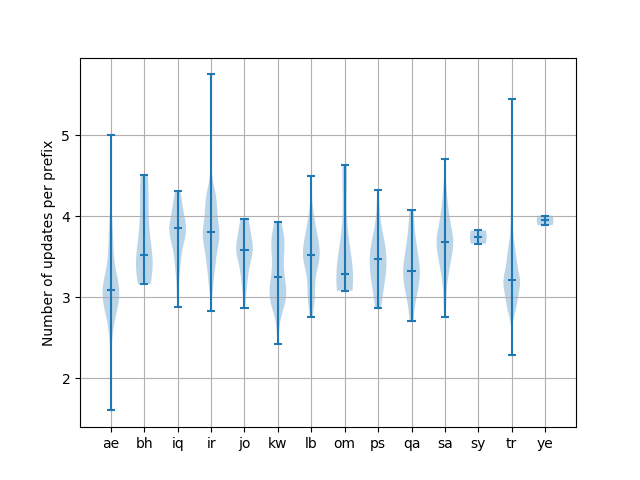
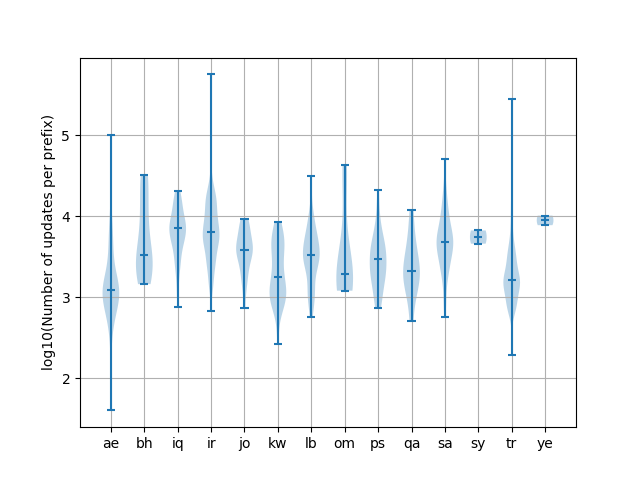
merge nb prefixes

Changed region(s): [[0.0625, 0.25, 0.0938, 0.7812]]

diff --git a/plot-country-updates.py b/plot-country-updates.py
@@ -9,6 +9,7 @@ from datetime import datetime
 
 merge_nb_updates = []
 merge_update_ratio = []
+merge_nb_prefixes = []
 country_codes = []
 output_path = './output/'
 figure_path = './figures/'
@@ -32,6 +33,7 @@ for output_file in sorted(glob.glob(os.path.join(output_path, '*.txt'))):
         country_codes.append(country_code)
         merge_nb_updates.append(np.log10(nb_updates))
         merge_update_ratio.append(np.log10(update_ratio))
+        merge_nb_prefixes.append(nb_prefixes)
 
         nb_updates_fig = plt.figure()
         plt.loglog(nb_prefixes,nb_updates,'x')
@@ -50,7 +52,7 @@ for output_file in sorted(glob.glob(os.path.join(output_path, '*.txt'))):
 fig, ax = plt.subplots()
 ax.violinplot(merge_nb_updates, showmedians=True)
 ax.grid(True)
-plt.ylabel('Number of updates')
+plt.ylabel('log10(Number of updates)')
 xtickNames = plt.setp(ax, xticklabels=np.repeat(country_codes, 2))
 plt.setp(ax, xticks=[y+1 for y in range(len(merge_nb_updates))],
          xticklabels=country_codes)
@@ -60,10 +62,11 @@ plt.close(fig)
 fig, ax = plt.subplots()
 ax.violinplot(merge_update_ratio, showmedians=True)
 ax.grid(True)
-plt.ylabel('Number of updates per prefix')
+plt.ylabel('log10(Number of updates per prefix)')
 xtickNames = plt.setp(ax, xticklabels=np.repeat(country_codes, 2))
 plt.setp(ax, xticks=[y+1 for y in range(len(merge_update_ratio))],
          xticklabels=country_codes)
 fig.savefig(figure_path+'update-ratio-menog-'+timestamp+'.png')
 plt.close(fig)
+
 
